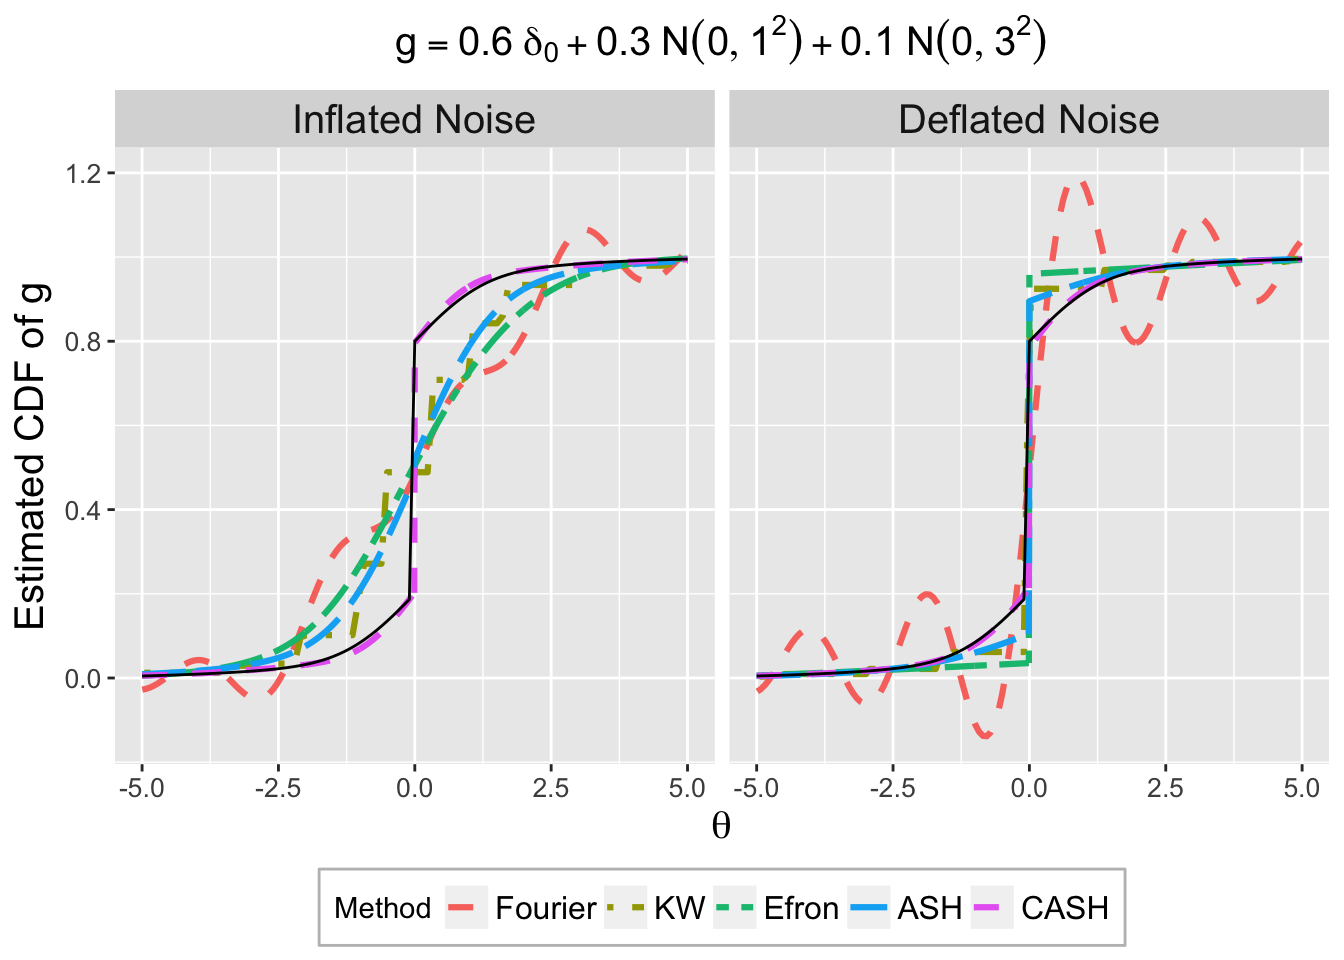
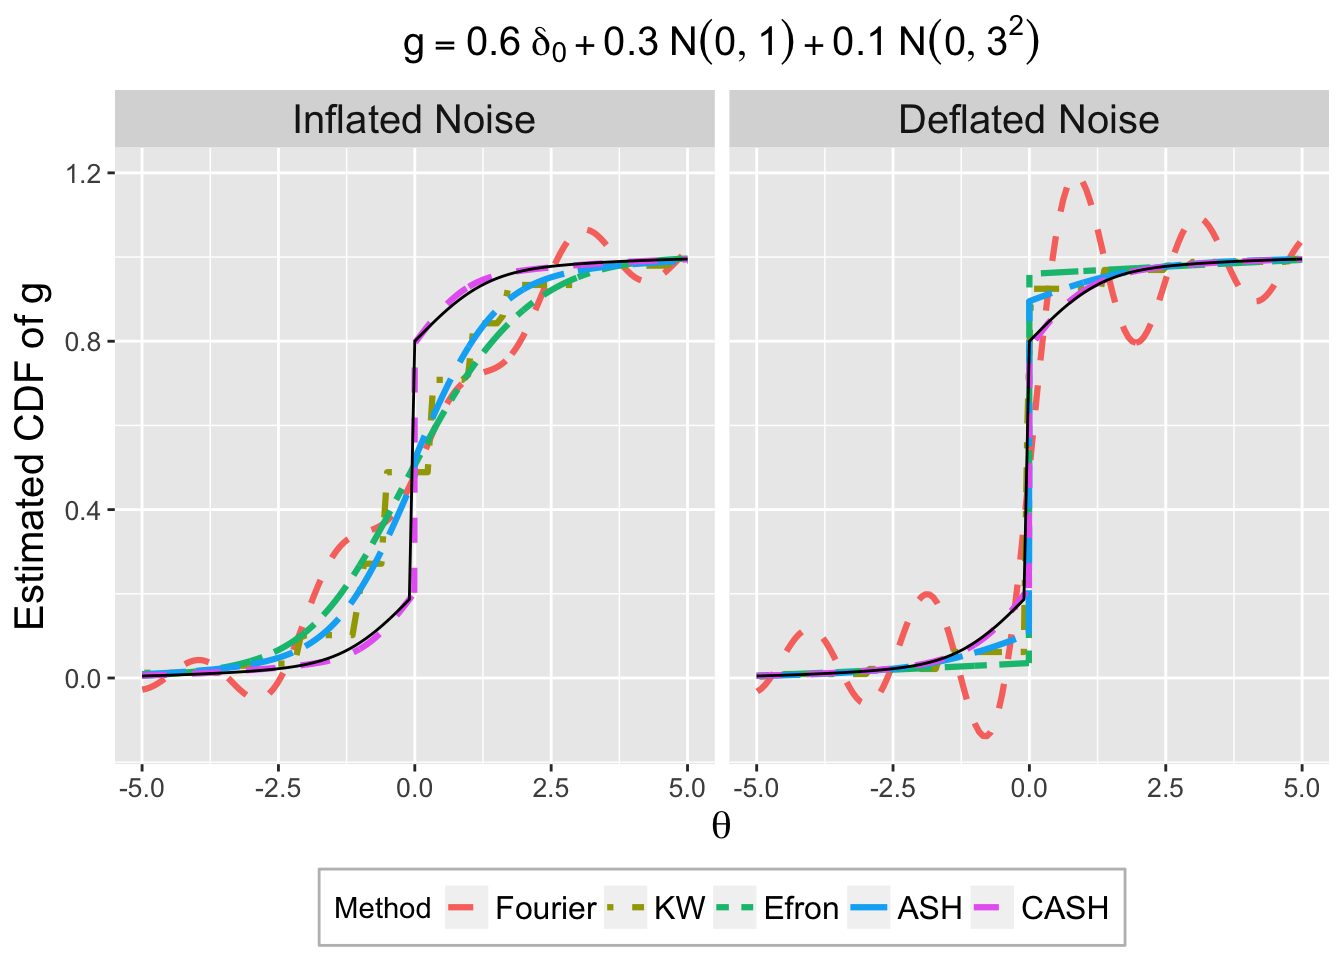
Build site.

Changed region(s): [[0.2812, 0.0, 0.7812, 0.0625]]

diff --git a/docs/gd_w.html b/docs/gd_w.html
@@ -332,7 +332,7 @@ div.section {
 </div>
 
 
-<p><strong>Last updated:</strong> 2018-05-29</p>
+<p><strong>Last updated:</strong> 2018-05-30</p>
 <strong>workflowr checks:</strong> <small>(Click a bullet for more information)</small>
 <ul>
 <li>
@@ -361,7 +361,7 @@ div.section {
 </li>
 <li>
 <details>
-<p><summary> <strong style="color:blue;">✔</strong> <strong>Repository version:</strong> <a href="https://github.com/LSun/truncash/tree/fc26405cf472c8734c1c292f32752f6bdf38b30f" target="_blank">fc26405</a> </summary></p>
+<p><summary> <strong style="color:blue;">✔</strong> <strong>Repository version:</strong> <a href="https://github.com/LSun/truncash/tree/d54a1559fb9447c1e5748bffb24dc4db782b6e02" target="_blank">d54a155</a> </summary></p>
 Great! You are using Git for version control. Tracking code development and connecting the code version to the results is critical for reproducibility. The version displayed above was the version of the Git repository at the time these results were generated. <br><br> Note that you need to be careful to ensure that all relevant files for the analysis have been committed to Git prior to generating the results (you can use <code>wflow_publish</code> or <code>wflow_git_commit</code>). workflowr only checks the R Markdown file, but you know if there are other scripts or data files that it depends on. Below is the status of the Git repository when the results were generated:
 <pre><code>
 Ignored files:
@@ -410,7 +410,6 @@ Ignored files:
     Ignored:    analysis/diagnostic_plot_2_cache/
     Ignored:    analysis/diagnostic_plot_cache/
     Ignored:    analysis/efron_leukemia_cache/
-    Ignored:    analysis/figure/
     Ignored:    analysis/fitting_normal_cache/
     Ignored:    analysis/gaussian_derivatives_2_cache/
     Ignored:    analysis/gaussian_derivatives_3_cache/
@@ -462,6 +461,9 @@ Ignored files:
     Ignored:    docs/figure/.DS_Store
     Ignored:    output/fig/
 
+Unstaged changes:
+    Modified:   analysis/cash_plots_2.rmd
+
 </code></pre>
 Note that any generated files, e.g. HTML, png, CSS, etc., are not included in this status report because it is ok for generated content to have uncommitted changes.
 </details>
@@ -491,6 +493,40 @@ Message
 </tr>
 </thead>
 <tbody>
+<tr>
+<td style="text-align:left;">
+rmd
+</td>
+<td style="text-align:left;">
+<a href="https://github.com/LSun/truncash/blob/d54a1559fb9447c1e5748bffb24dc4db782b6e02/analysis/gd_w.rmd" target="_blank">d54a155</a>
+</td>
+<td style="text-align:left;">
+Lei Sun
+</td>
+<td style="text-align:left;">
+2018-05-30
+</td>
+<td style="text-align:left;">
+eps
+</td>
+</tr>
+<tr>
+<td style="text-align:left;">
+html
+</td>
+<td style="text-align:left;">
+<a href="https://cdn.rawgit.com/LSun/truncash/2acb1abb6aad2555365c1815df7e1d0a8741a6af/docs/gd_w.html" target="_blank">2acb1ab</a>
+</td>
+<td style="text-align:left;">
+LSun
+</td>
+<td style="text-align:left;">
+2018-05-29
+</td>
+<td style="text-align:left;">
+Build site.
+</td>
+</tr>
 <tr>
 <td style="text-align:left;">
 rmd
@@ -1897,7 +1933,7 @@ ggplot(data = deconv.ggdata, aes(x = x, y = cdfhat, col = Method, linetype = Met
   xlim(-5, 5) +
   scale_linetype_manual(values = method.linetype, labels = method.name) +
   scale_color_manual(values = method.col, labels = method.name) +
-  labs(x = expression(theta), y = &quot;Estimated CDF of g&quot;, title = expression(g == 0.6~delta[0] + 0.3~N(0, 1^2) + 0.1~N(0, 3^2))) +
+  labs(x = expression(theta), y = &quot;Estimated CDF of g&quot;, title = expression(g == 0.6~delta[0] + 0.3~N(0, 1) + 0.1~N(0, 3^2))) +
   theme(plot.title = element_text(size = 15, hjust = 0.5),
         axis.title.x = element_text(size = 15),
         axis.text.x = element_text(size = 10),
@@ -1940,7 +1976,7 @@ LSun
 </tbody>
 </table>
 </details>
-<pre class="r"><code>ggsave(&quot;../output/fig/deconv.eps&quot;, height = 4, width = 7)</code></pre>
+<pre class="r"><code>ggsave(&quot;../output/fig/deconv.eps&quot;, height = 5, width = 7)</code></pre>
 <pre><code>Warning: Removed 908 rows containing missing values (geom_path).</code></pre>
 </div>
 <div id="session-information" class="section level2">
@@ -1961,12 +1997,11 @@ attached base packages:
 [1] stats     graphics  grDevices utils     datasets  methods   base     
 
 other attached packages:
- [1] polynom_1.3-9     deconvolveR_1.1   reshape2_1.4.3   
- [4] ggplot2_2.2.1     plyr_1.8.4        edgeR_3.20.9     
- [7] limma_3.34.9      ashr_2.2-7        Rmosek_8.0.69    
-[10] PolynomF_1.0-2    CVXR_0.95         REBayes_1.3      
-[13] Matrix_1.2-14     SQUAREM_2017.10-1 EQL_1.0-0        
-[16] ttutils_1.0-1    
+ [1] deconvolveR_1.1   reshape2_1.4.3    ggplot2_2.2.1    
+ [4] plyr_1.8.4        edgeR_3.20.9      limma_3.34.9     
+ [7] ashr_2.2-7        Rmosek_8.0.69     PolynomF_1.0-2   
+[10] CVXR_0.95         REBayes_1.3       Matrix_1.2-14    
+[13] SQUAREM_2017.10-1 EQL_1.0-0         ttutils_1.0-1    
 
 loaded via a namespace (and not attached):
  [1] qvalue_2.10.0     locfit_1.5-9.1    splines_3.4.3    
